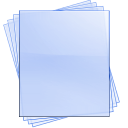
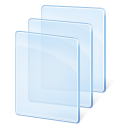
- Replaced "Multiple" image - Flags always shown in inspector

diff --git a/LFCore/LFVariantData.cpp b/LFCore/LFVariantData.cpp
@@ -232,7 +232,6 @@ bool IsNullValue(unsigned int attr, void* v)
 		return (*(char*)v=='\0');
 	case LFTypeFourCC:
 	case LFTypeUINT:
-	case LFTypeFlags:
 	case LFTypeDuration:
 	case LFTypeBitrate:
 		return (*(unsigned int*)v)==0;
